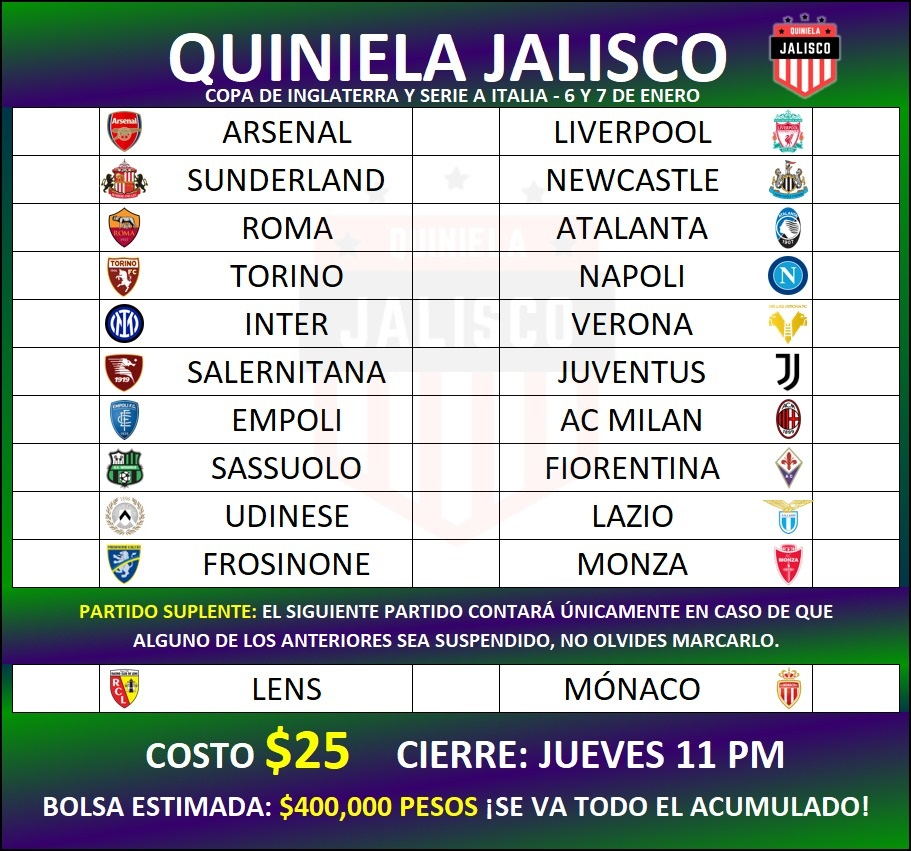
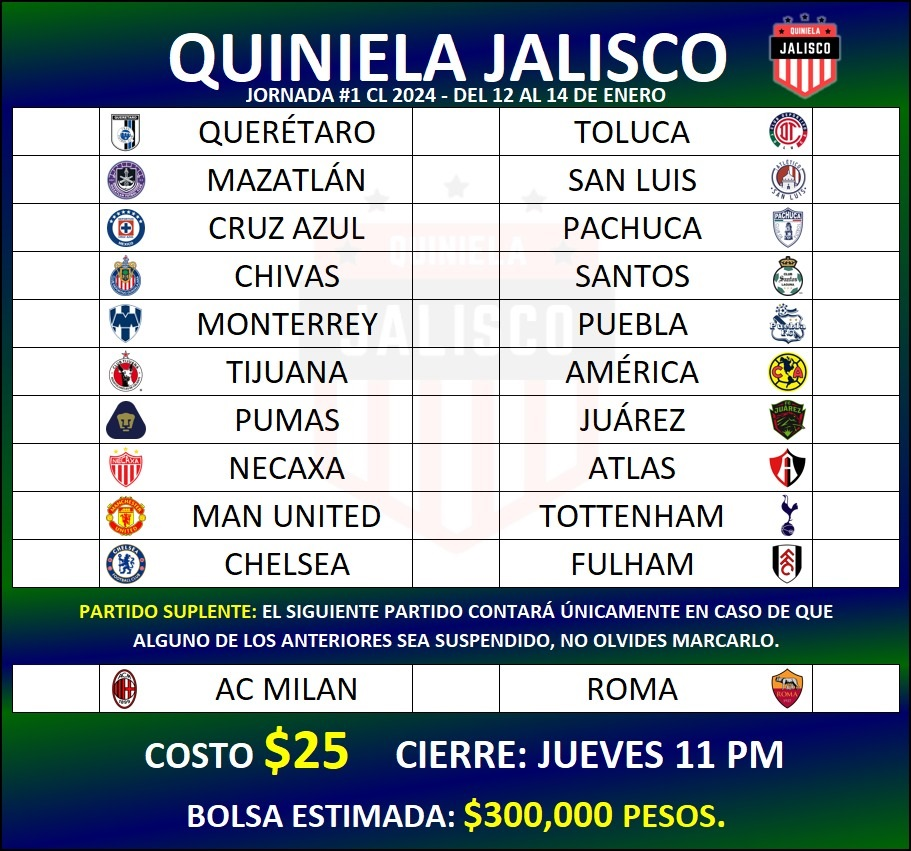
Jornada 1 CL24

diff --git a/11/styles11.css b/11/styles11.css
@@ -95,8 +95,8 @@ body{
     margin-top: 8.5%;
     border-top: solid 1px black;
     border-radius: 0 0 14px 14px;
-    background: -webkit-linear-gradient(0.48turn, rgb(6 134 11) -7% ,rgb(52 8 103) 60%, rgb(6 134 11) 148% );
-    background: linear-gradient(0.48turn, rgb(6 134 11) -7% ,rgb(52 8 103) 60%, rgb(6 134 11) 148% );
+    background: -webkit-linear-gradient(0.48turn, rgb(6 134 11) -7% ,rgb(0,11,93) 60%, rgb(6 134 11) 148% );
+    background: linear-gradient(0.48turn, rgb(6 134 11) -7% ,rgb(0,11,93) 60%, rgb(6 134 11) 148% );
 }
 
 .text-lg{
@@ -287,26 +287,25 @@ h6{
 
 #bolsatxt:before{
     content:'Bolsa estimada: ';
-    white-swhite;
     white-space:pre;
     text-shadow: 1px 1px 4px black;
 }
 
 #cantidad:before{
-    content:'+$400,000 pesos \A ¡Se reparte todo el acumulado!';
+    content:'$300,000 pesos';
     color: yellow;
     white-space:pre;
 }
 
 #sub1:before{
     content:'';
-    color: yellow
+    color: yellow;
     white-space:pre;
 }
 
 #sub2:before{
     content:'';
-    color: yellow
+    color: yellow;
     white-space:pre;
 }
 
